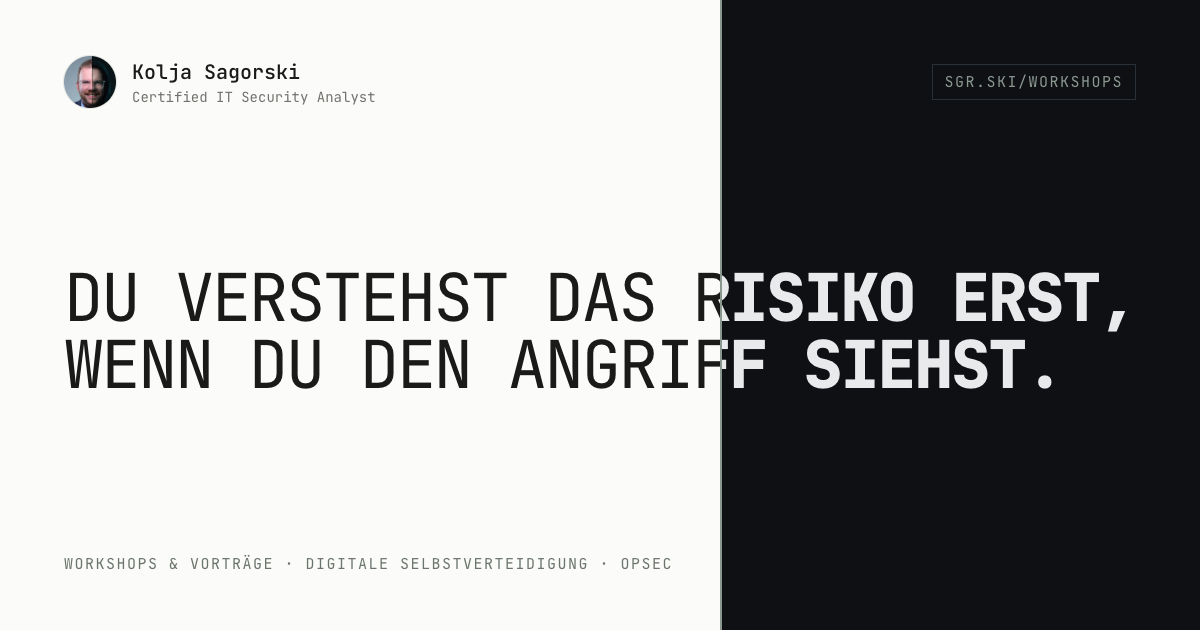
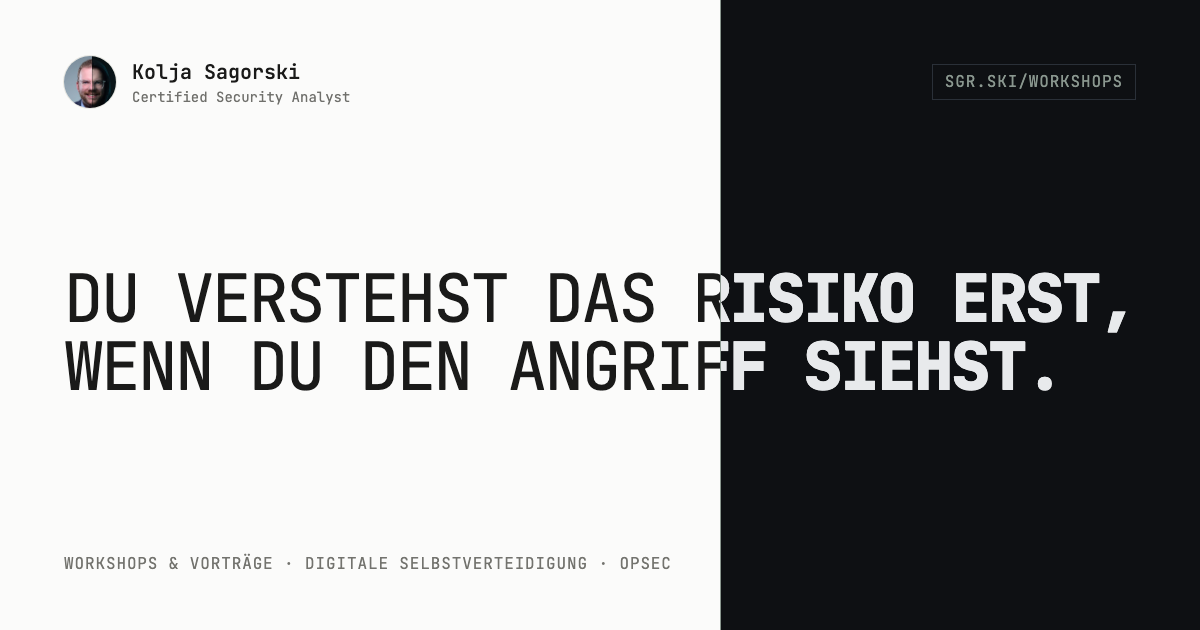
Fix certification title: Certified Security Analyst
The title is "Certified Security Analyst", not "Certified IT Security
Analyst". Corrected on the home page, /workshops (JSON-LD jobTitle and
three visible spots), the quiz page, llms.txt, the Markdown mirror and
the web manifest; the two JSON-LD CSP hashes are updated.

assets/og-workshops.png carried the old title in the card. Its source was
never committed, so scripts/workshops-social.html rebuilds it (same
layout, JetBrains Mono, light/dark split) and the PNG is re-rendered with
headless Chrome. og-quiz.png shows no title and stays.

diff --git a/index.html b/index.html
@@ -6,12 +6,12 @@
 <meta name="theme-color" content="#001300">
 <meta name="color-scheme" content="dark">
 
-<title>Kolja Sagorski — Certified IT Security Analyst</title>
-<meta name="description" content="20+ years on both sides of the firewall. Certified IT Security Analyst.">
+<title>Kolja Sagorski — Certified Security Analyst</title>
+<meta name="description" content="20+ years on both sides of the firewall. Certified Security Analyst.">
 <meta name="author" content="Kolja Sagorski">
 <link rel="canonical" href="https://sgr.ski/">
 
-<meta http-equiv="Content-Security-Policy" content="default-src 'none'; img-src 'self'; manifest-src 'self'; style-src 'self'; script-src 'self' 'sha256-7HK7MwqJPORKDvxUVtvhWSle0yJmHzRl6CftOY9WSrY='; font-src 'self'; connect-src https://umami.patchletter.com; base-uri 'none'; form-action 'none'">
+<meta http-equiv="Content-Security-Policy" content="default-src 'none'; img-src 'self'; manifest-src 'self'; style-src 'self'; script-src 'self' 'sha256-B7X4ChFbHt21XN5DCTPRzPNo3H3bogwaqx/FxRxe9VY='; font-src 'self'; connect-src https://umami.patchletter.com; base-uri 'none'; form-action 'none'">
 <meta name="referrer" content="strict-origin-when-cross-origin">
 
 <meta property="og:type" content="profile">
@@ -19,13 +19,13 @@
 <meta property="profile:last_name" content="Sagorski">
 <meta property="og:site_name" content="sgr.ski">
 <meta property="og:locale" content="en_US">
-<meta property="og:title" content="Kolja Sagorski — Certified IT Security Analyst">
+<meta property="og:title" content="Kolja Sagorski — Certified Security Analyst">
 <meta property="og:description" content="20+ years on both sides of the firewall.">
 <meta property="og:url" content="https://sgr.ski/">
 <meta property="og:image" content="https://sgr.ski/assets/og.png">
 <meta property="og:image:width" content="1200">
 <meta property="og:image:height" content="630">
-<meta property="og:image:alt" content="Kolja Sagorski — Certified IT Security Analyst. 20+ years on both sides of the firewall.">
+<meta property="og:image:alt" content="Kolja Sagorski — Certified Security Analyst. 20+ years on both sides of the firewall.">
 <meta name="twitter:card" content="summary_large_image">
 
 <link rel="icon" href="/favicon.ico" sizes="32x32">
@@ -46,7 +46,7 @@
   "name": "Kolja Sagorski",
   "url": "https://sgr.ski/",
   "image": "https://sgr.ski/assets/og.png",
-  "jobTitle": "Certified IT Security Analyst",
+  "jobTitle": "Certified Security Analyst",
   "description": "20+ years on both sides of the firewall.",
   "email": "mailto:kolja@sagorski.org",
   "knowsAbout": ["IT Security", "Offensive Security", "Incident Response"],
@@ -75,7 +75,7 @@
 
   <div class="copy">
     <p class="headline">20+ years on both sides of the firewall.</p>
-    <p class="body">Certified IT Security Analyst. Offensive and defensive security, incident response, and workshops on digital self-defence.</p>
+    <p class="body">Certified Security Analyst. Offensive and defensive security, incident response, and workshops on digital self-defence.</p>
     <svg class="bracket" viewBox="0 0 12.92 100.43" aria-hidden="true"><path d="M10.92 0v.14H0v2h10.92v20.84H6.07v2h4.85v20.84H0v2h10.92v24.31H6.07v2h4.85v24.3H0v2h12.92V0z"/></svg>
   </div>
 

diff --git a/workshops/index.html b/workshops/index.html
@@ -11,7 +11,7 @@
 <link rel="canonical" href="https://sgr.ski/workshops/">
 <link rel="alternate" type="text/markdown" href="/workshops/index.md" title="Markdown-Fassung">
 
-<meta http-equiv="Content-Security-Policy" content="default-src 'none'; img-src 'self'; manifest-src 'self'; style-src 'self'; script-src 'self' 'sha256-QF8tYRzMBJtaRiruP70VRMo7QeXhNmVphpY5jywA4JQ='; font-src 'self'; media-src 'self'; connect-src https://ip.sgr.ski https://umami.patchletter.com; base-uri 'none'; form-action 'none'">
+<meta http-equiv="Content-Security-Policy" content="default-src 'none'; img-src 'self'; manifest-src 'self'; style-src 'self'; script-src 'self' 'sha256-qzDUOctFjlaeRrBTy5qa3YHMH864TnTTFNjG5rFbVuY='; font-src 'self'; media-src 'self'; connect-src https://ip.sgr.ski https://umami.patchletter.com; base-uri 'none'; form-action 'none'">
 <meta name="referrer" content="strict-origin-when-cross-origin">
 
 <meta property="og:type" content="website">
@@ -62,7 +62,7 @@
     "@type": "Person",
     "name": "Kolja Sagorski",
     "url": "https://sgr.ski/",
-    "jobTitle": "Certified IT Security Analyst",
+    "jobTitle": "Certified Security Analyst",
     "email": "mailto:kolja@sagorski.org",
     "sameAs": [
       "https://www.linkedin.com/in/koljasagorski/"
@@ -118,7 +118,7 @@
   <div class="hero__layer">
     <div class="hero__top">
       <img class="hero__avatar" src="/assets/avatar.webp" alt="" width="40" height="40">
-      <div class="hero__who"><span class="hero__name">Kolja Sagorski</span><span class="hero__role">Certified IT Security Analyst</span></div>
+      <div class="hero__who"><span class="hero__name">Kolja Sagorski</span><span class="hero__role">Certified Security Analyst</span></div>
       <a class="chip-link" href="/">← SGR.SKI</a>
     </div>
     <div class="hero__body">
@@ -140,7 +140,7 @@
   <div class="hero__layer hero__layer--dark dark" aria-hidden="true">
     <div class="hero__top">
       <img class="hero__avatar" src="/assets/avatar.webp" alt="" width="40" height="40">
-      <div class="hero__who"><span class="hero__name">Kolja Sagorski</span><span class="hero__role">Certified IT Security Analyst</span></div>
+      <div class="hero__who"><span class="hero__name">Kolja Sagorski</span><span class="hero__role">Certified Security Analyst</span></div>
       <span class="chip-link">← SGR.SKI</span>
     </div>
     <div class="hero__body">
@@ -550,7 +550,7 @@
     <div class="about__id">
       <img class="about__avatar" src="/assets/avatar.webp" width="96" height="96" loading="lazy"
            alt="Portrait von Kolja Sagorski, mittig geteilt: auf einer Seite Anzug, auf der anderen Hoodie.">
-      <div class="stack stack--4"><span class="label">ÜBER MICH</span><h2 class="about__name">KOLJA SAGORSKI</h2><span class="about__role">Certified IT Security Analyst</span></div>
+      <div class="stack stack--4"><span class="label">ÜBER MICH</span><h2 class="about__name">KOLJA SAGORSKI</h2><span class="about__role">Certified Security Analyst</span></div>
     </div>
     <div class="stack stack--20">
       <p class="about__tagline">20+ Jahre auf beiden Seiten der Firewall.</p>

diff --git a/scripts/workshops-social.html b/scripts/workshops-social.html
@@ -1,0 +1,39 @@
+<!DOCTYPE html>
+<!-- Source of assets/og-workshops.png (1200 × 630). Render this local file with headless Chrome
+     at device scale 1 once the fonts have loaded. It mirrors the /workshops hero: the light
+     user layer, and the dark attacker layer right of the firewall line. Only the resulting
+     PNG is published by scripts/build.sh. -->
+<html lang="de">
+<meta charset="utf-8">
+<title>Workshops · Social Preview</title>
+<style>
+@font-face { font-family: Mono; src: url('../assets/fonts/jetbrains-mono-latin.woff2') format('woff2'); font-weight: 100 800; }
+* { box-sizing: border-box; margin: 0; }
+body { width: 1200px; height: 630px; position: relative; overflow: hidden; font-family: Mono, monospace; }
+.layer { position: absolute; inset: 0; padding: 56px 64px 56px; display: flex; flex-direction: column; background: #fbfbfa; color: #1a1a19; --muted: #70706c; --faint: #73736e; }
+.layer--dark { clip-path: inset(0 0 0 720px); background: #0e1013; color: #e8eaec; --muted: #7c8288; --faint: #787d85; }
+.top { display: flex; align-items: center; gap: 16px; height: 52px; }
+.top img { width: 52px; height: 52px; border-radius: 50%; box-shadow: 0 0 0 1px #e6e6e0; }
+.layer--dark .top img { box-shadow: 0 0 0 1px #21262c; }
+.who { display: flex; flex-direction: column; gap: 3px; }
+.name { font-size: 20px; font-weight: 500; }
+.role { font-size: 14px; color: var(--muted); }
+.title { margin-top: auto; font-size: 66px; font-weight: 300; line-height: 1.02; letter-spacing: -.04em; white-space: nowrap; }
+.layer--dark .title { font-weight: 800; }
+.kicker { margin-top: 153px; font-size: 16px; letter-spacing: .055em; color: var(--faint); }
+.chip { position: absolute; right: 64px; top: 64px; padding: 7px 12px; border: 1px solid #2a3038; color: #8a978f; font-size: 16px; letter-spacing: .055em; line-height: 20px; }
+.line { position: absolute; left: 720px; top: 0; bottom: 0; width: 1px; background: #8a978f; }
+</style>
+<div class="layer">
+  <div class="top"><img src="../assets/avatar.webp" alt=""><div class="who"><span class="name">Kolja Sagorski</span><span class="role">Certified Security Analyst</span></div></div>
+  <div class="title">DU VERSTEHST DAS RISIKO ERST,<br>WENN DU DEN ANGRIFF SIEHST.</div>
+  <div class="kicker">WORKSHOPS &amp; VORTRÄGE · DIGITALE SELBSTVERTEIDIGUNG · OPSEC</div>
+</div>
+<div class="layer layer--dark">
+  <div class="top"><img src="../assets/avatar.webp" alt=""><div class="who"><span class="name">Kolja Sagorski</span><span class="role">Certified Security Analyst</span></div></div>
+  <div class="title">DU VERSTEHST DAS RISIKO ERST,<br>WENN DU DEN ANGRIFF SIEHST.</div>
+  <div class="kicker">WORKSHOPS &amp; VORTRÄGE · DIGITALE SELBSTVERTEIDIGUNG · OPSEC</div>
+</div>
+<div class="line"></div>
+<div class="chip">SGR.SKI/WORKSHOPS</div>
+</html>

diff --git a/workshops/quiz/index.html b/workshops/quiz/index.html
@@ -42,7 +42,7 @@
   <div class="wrap quiz-page__top">
     <a class="quiz-page__identity" href="/">
       <img src="/assets/avatar.webp" alt="" width="40" height="40">
-      <span>Kolja Sagorski<span class="quiz-page__role">Certified IT Security Analyst</span></span>
+      <span>Kolja Sagorski<span class="quiz-page__role">Certified Security Analyst</span></span>
     </a>
     <a class="quiz-page__workshops" href="/workshops/">Workshops <span aria-hidden="true">→</span></a>
   </div>

diff --git a/workshops/index.md b/workshops/index.md
@@ -9,7 +9,7 @@ updated: 2026-09-30
 
 > Du verstehst das Risiko erst, wenn du den Angriff siehst.
 
-Workshops und Vorträge zu digitaler Selbstverteidigung und Operational Security (OPSEC) für Journalisten, Whistleblower, Menschen im Exil und alle, die mit sensiblen Informationen arbeiten – mit Live-Demonstrationen realer Angriffe. Angeboten von Kolja Sagorski, Certified IT Security Analyst, mit mehr als 20 Jahren Erfahrung auf beiden Seiten der Firewall.
+Workshops und Vorträge zu digitaler Selbstverteidigung und Operational Security (OPSEC) für Journalisten, Whistleblower, Menschen im Exil und alle, die mit sensiblen Informationen arbeiten – mit Live-Demonstrationen realer Angriffe. Angeboten von Kolja Sagorski, Certified Security Analyst, mit mehr als 20 Jahren Erfahrung auf beiden Seiten der Firewall.
 
 Ablauf jedes Themas: **Angriff → Verstehen → Schützen → Prüfen.**
 
@@ -63,7 +63,7 @@ Die konkreten Demonstrationen variieren je nach Zielgruppe und Workshop.
 
 ## Über Kolja Sagorski
 
-Certified IT Security Analyst, 20+ Jahre auf beiden Seiten der Firewall. Schwerpunkte: Cyber Security, Offensive Security, Defensive Security, Operational Security, Privacy, Infrastructure Security.
+Certified Security Analyst, 20+ Jahre auf beiden Seiten der Firewall. Schwerpunkte: Cyber Security, Offensive Security, Defensive Security, Operational Security, Privacy, Infrastructure Security.
 
 ## Brauchst du einen Workshop? Selbstcheck zur digitalen Sicherheit
 

diff --git a/CLAUDE.md b/CLAUDE.md
@@ -87,7 +87,8 @@ SEO /workshops: Die H1 ist das kleine Label „WORKSHOPS · DIGITALE SELBSTVERTE
 QUELLENSCHUTZ“ (Suchbegriffe); der große Slogan ist bewusst ein `<p>`. Titel ≤ 62 Zeichen,
 Description ~150. Das OG-Bild `assets/og-workshops.png` ist in HTML gesetzt (Seiten-Schrift,
 Hell/Dunkel-Split wie im Hero) und mit Chrome gerendert — nicht KI-generiert, damit die Schrift
-exakt ist. Bei Textänderung neu rendern; LinkedIn cacht Vorschauen (Post Inspector nutzen).
+exakt ist. Quelle: `scripts/workshops-social.html` (Chrome, 1200×630, Faktor 1, seit 2026-11-16 im
+Repo). Bei Textänderung neu rendern; LinkedIn cacht Vorschauen (Post Inspector nutzen).
 
 KI-Lesbarkeit: `/llms.txt` (Allow-List in `scripts/build.sh`!) und `workshops/index.md` als Markdown-Spiegel der
 Workshop-Seite, verlinkt per `rel="alternate" type="text/markdown"`. **Inhaltliche Änderungen an

diff --git a/README.md b/README.md
@@ -28,7 +28,7 @@ ip-worker/                  Cloudflare Worker for ip.sgr.ski (visitor IP/ASN/loc
 assets/fonts/*.woff2        JetBrains Mono (variable); home page: Jersey 10 (OFL) + Hack 400/700 Latin subset (MIT/Bitstream Vera), self-hosted
 assets/avatar.webp          224px avatar, used on /workshops
 assets/og.png               1200×630 social card
-assets/og-workshops.png     1200×630 social card for /workshops (HTML-set, rendered with Chrome)
+assets/og-workshops.png     1200×630 social card for /workshops (source: scripts/workshops-social.html)
 assets/og-quiz.png          1200×630 social card for /workshops/quiz (source: scripts/quiz-social.html)
 scripts/home-social.html    source of assets/og.png (40C3 style; render with Chromium at 1200×630)
 kolja-sagorski.asc          PGP public key, offered as a download
